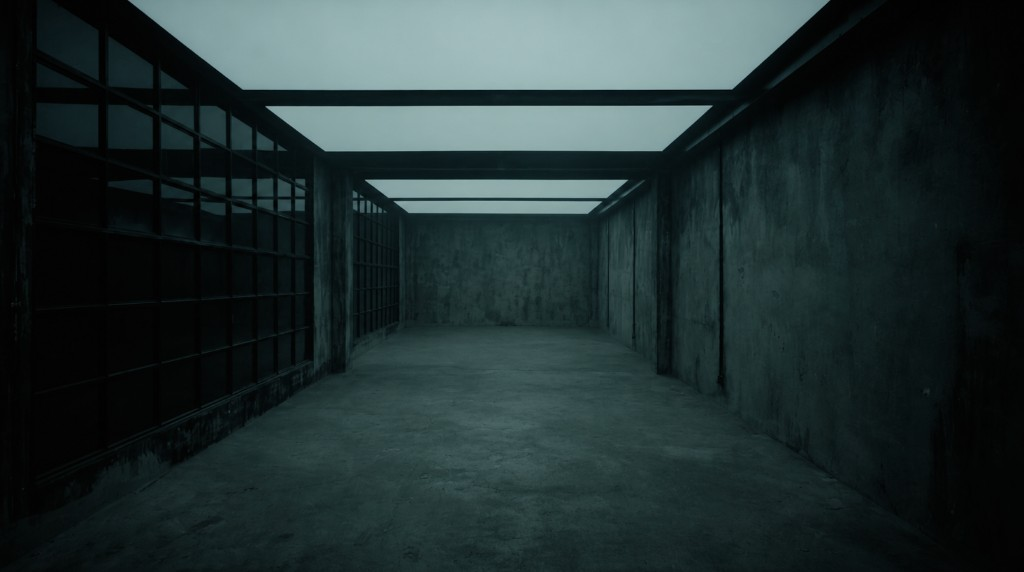
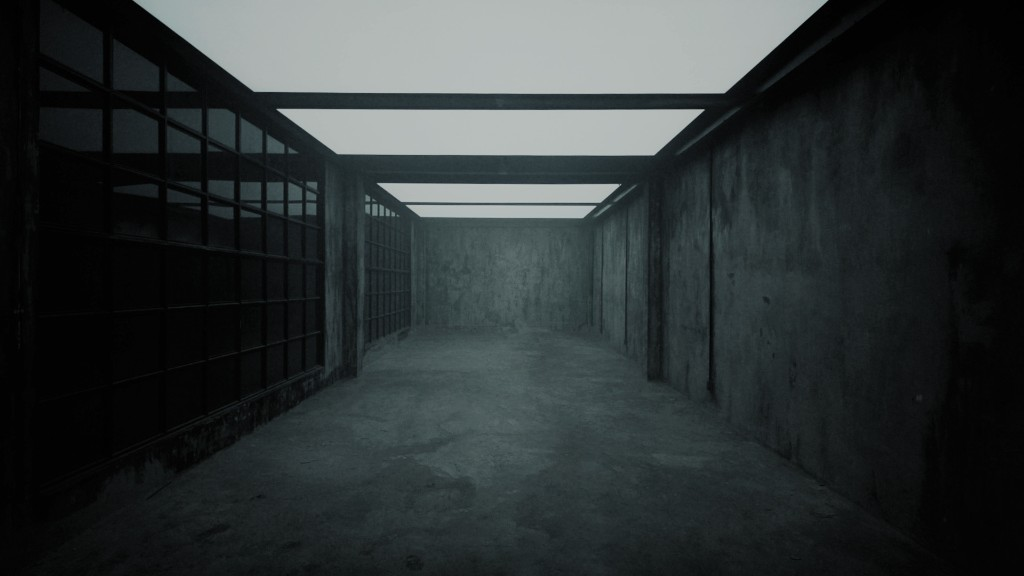
add bangkok update

diff --git a/components/RegistrationDetails.jsx b/components/RegistrationDetails.jsx
@@ -54,6 +54,22 @@ function RegistrationHero({ registration }) {
 }
 
 function RegistrationVideoBlock({ registration }) {
+  if (registration.midImage) {
+    return (
+      <figure className="registration-details__media registration-details__mid-image">
+        {/* eslint-disable-next-line @next/next/no-img-element */}
+        <img
+          src={registration.midImage}
+          alt={registration.midImageAlt ?? registration.title}
+        />
+        {registration.midImageCaption ? (
+          <figcaption className="registration-details__mid-caption">
+            {registration.midImageCaption}
+          </figcaption>
+        ) : null}
+      </figure>
+    );
+  }
   if (!registration.youtubeUrl) return null;
   return (
     <section className="registration-details__video-block" aria-label="video">
@@ -72,6 +88,19 @@ function RegistrationVideoBlock({ registration }) {
         />
       </figure>
     </section>
+  );
+}
+
+function RegistrationAfterVideoImage({ registration }) {
+  if (!registration.afterVideoImage) return null;
+  return (
+    <figure className="registration-details__media">
+      {/* eslint-disable-next-line @next/next/no-img-element */}
+      <img
+        src={registration.afterVideoImage}
+        alt={registration.afterVideoImageAlt ?? ""}
+      />
+    </figure>
   );
 }
 
@@ -103,6 +132,7 @@ function RegistrationProse({ registration }) {
       {registration.afterVideoParagraphs?.map((paragraph, i) => (
         <p key={`after-${i}`}>{paragraph}</p>
       ))}
+      <RegistrationAfterVideoImage registration={registration} />
       {registration.practicalLine ? (
         <p className="registration-details__practical">
           {registration.practicalLine.split("\n").map((line, i, lines) => (

diff --git a/content/registrations.js b/content/registrations.js
@@ -20,12 +20,14 @@ export const registrations = [
       "Rooted in Berlin’s club scene, withdrawal in Switzerland, and a laboratory in a village in northern Thailand, HCYN tests the limits between waking and sleep.",
       "In Bangkok, Black Square is presented as a live session for 12 bodies inside the concrete hall of Begrüntes Haus.",
     ],
-    youtubeUrl: "https://youtu.be/eBnWYTcDTuw",
+    midImage: "/images/installations/black-square/hcyn-bs-07.jpg",
+    midImageAlt: "Black Square",
+    midImageCaption: "Black Square, San Sai Warehouse, Chiang Mai, 2025",
     afterVideoParagraphs: [
       "For this edition, HCYN works with the powerful local HeadSpace sound system. The physical pressure of low frequencies is placed against an almost motionless room: bodies lying down, eyes closed, listening.",
     ],
     practicalLine:
-      "Oct 3 / Begrüntes Haus / ~40 min / allow 60 min / capacity 12\nMats provided / please wear black or dark clothing",
+      "Oct 3 / Begrüntes Haus / ~40 min \ncapacity 12 / Mats provided",
     registrationUrl: "https://www.ticketmelon.com/sach/hardcoreyoganidra",
     registrationLabel: "Register — 400 THB",
   },

diff --git a/app/sitemap.js b/app/sitemap.js
@@ -1,9 +1,10 @@
 import { seo } from "@/content/seo";
-import { getInstallationSlugs } from "@/lib/content";
+import { getInstallationSlugs, getRegistrationSlugs } from "@/lib/content";
 import {
   getIndexableStaticRoutes,
   getSiteUrl,
   installationDetailsIndexable,
+  registrationsIndexable,
 } from "@/lib/metadata";
 
 export const dynamic = "force-static";
@@ -26,5 +27,14 @@ export default function sitemap() {
       }))
     : [];
 
-  return [...staticRoutes, ...installationRoutes];
+  const register = seo.register;
+  const registrationRoutes = registrationsIndexable()
+    ? getRegistrationSlugs().map((slug) => ({
+        url: `${base}/register/${slug}`,
+        changeFrequency: register.changeFrequency ?? "weekly",
+        priority: register.priority ?? 0.8,
+      }))
+    : [];
+
+  return [...staticRoutes, ...installationRoutes, ...registrationRoutes];
 }

diff --git a/app/globals.css b/app/globals.css
@@ -1396,6 +1396,23 @@ html:has(.page-home) body {
   margin: 2em 0;
 }
 
+.registration-details__media.registration-details__mid-image {
+  margin: 2em 0 0;
+}
+
+.registration-details__mid-image img {
+  display: block;
+  width: 100%;
+  height: auto;
+}
+
+.registration-details__mid-caption {
+  margin: 0.5em 0 1.25em;
+  font-size: var(--font-size-small);
+  line-height: var(--line-height-body);
+  color: var(--color-gray);
+}
+
 .registration-details__video-heading {
   margin: 0 0 0.75em;
   font-family: var(--font-family-nav);

diff --git a/lib/metadata.js b/lib/metadata.js
@@ -63,6 +63,11 @@ export function installationDetailsIndexable() {
   return Boolean(seo.installationDetail?.index);
 }
 
+/** Whether registration pages are indexable. */
+export function registrationsIndexable() {
+  return Boolean(seo.register?.index);
+}
+
 /** Paths to disallow in robots.txt (noindex sections). */
 export function getRobotsDisallow() {
   const disallow = [];

diff --git a/components/InstallationList.jsx b/components/InstallationList.jsx
@@ -82,7 +82,7 @@ export function InstallationList({ upcoming, past }) {
       />
       <InstallationSection
         id="installations-past"
-        title="past"
+        title="archive"
         items={past}
       />
     </div>

diff --git a/content/seo.js b/content/seo.js
@@ -63,7 +63,9 @@ export const seo = {
   /** /register/[slug] */
   register: {
     pathPrefix: "/register/",
-    index: false,
+    index: true,
+    changeFrequency: "weekly",
+    priority: 0.8,
   },
 
   notFound: {
